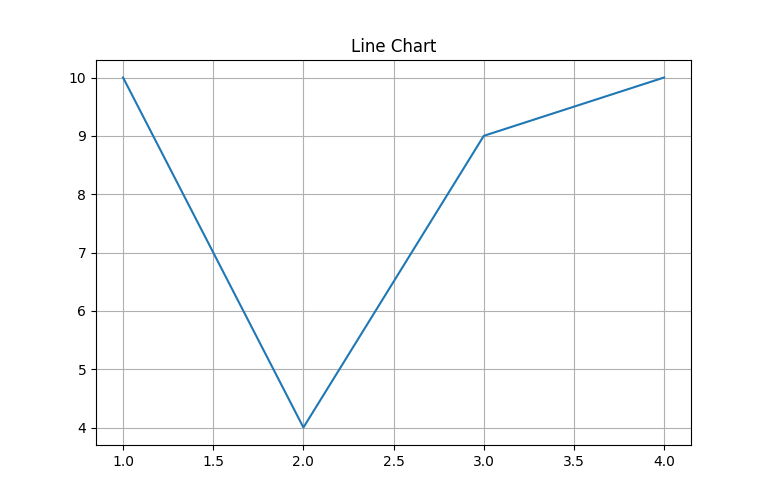
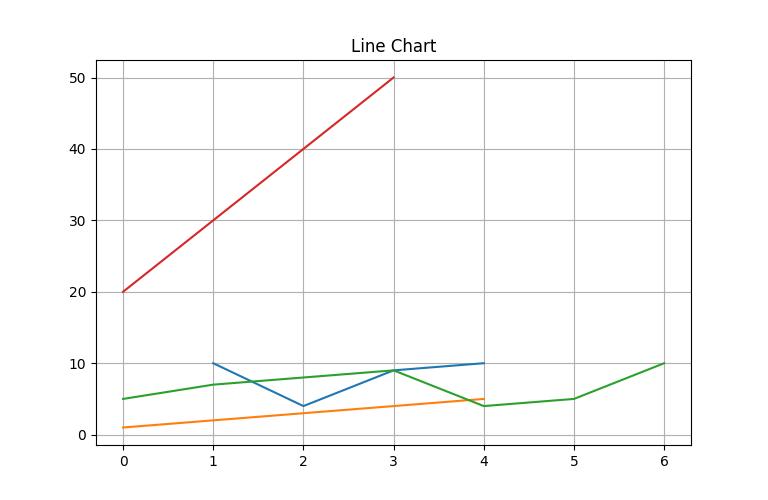
feat: update plots

diff --git a/src/app.py b/src/app.py
@@ -51,8 +51,10 @@ def update_chart_color():
     canvas.draw()
 
 def update_chart_plots():
-    pass
-
+    plots = [float(x) for x in update_chart_plots_input.get().split(",")]
+    plt.plot(plots)
+    canvas.draw()
+             
 update_chart_title_input_frame = tk.Frame(root)
 update_chart_title_input_frame.pack(pady=10)
 
@@ -82,7 +84,7 @@ update_chart_plots_input.pack(side=tk.LEFT, padx=5)
 update_chart_plots_input_button = tk.Button(
     update_chart_plots_input_frame,
     text="Update Plots",
-    command=update_chart_title,
+    command=update_chart_plots,
     font=("Arial", 14)
 )
 update_chart_plots_input_button.pack(side=tk.LEFT)
